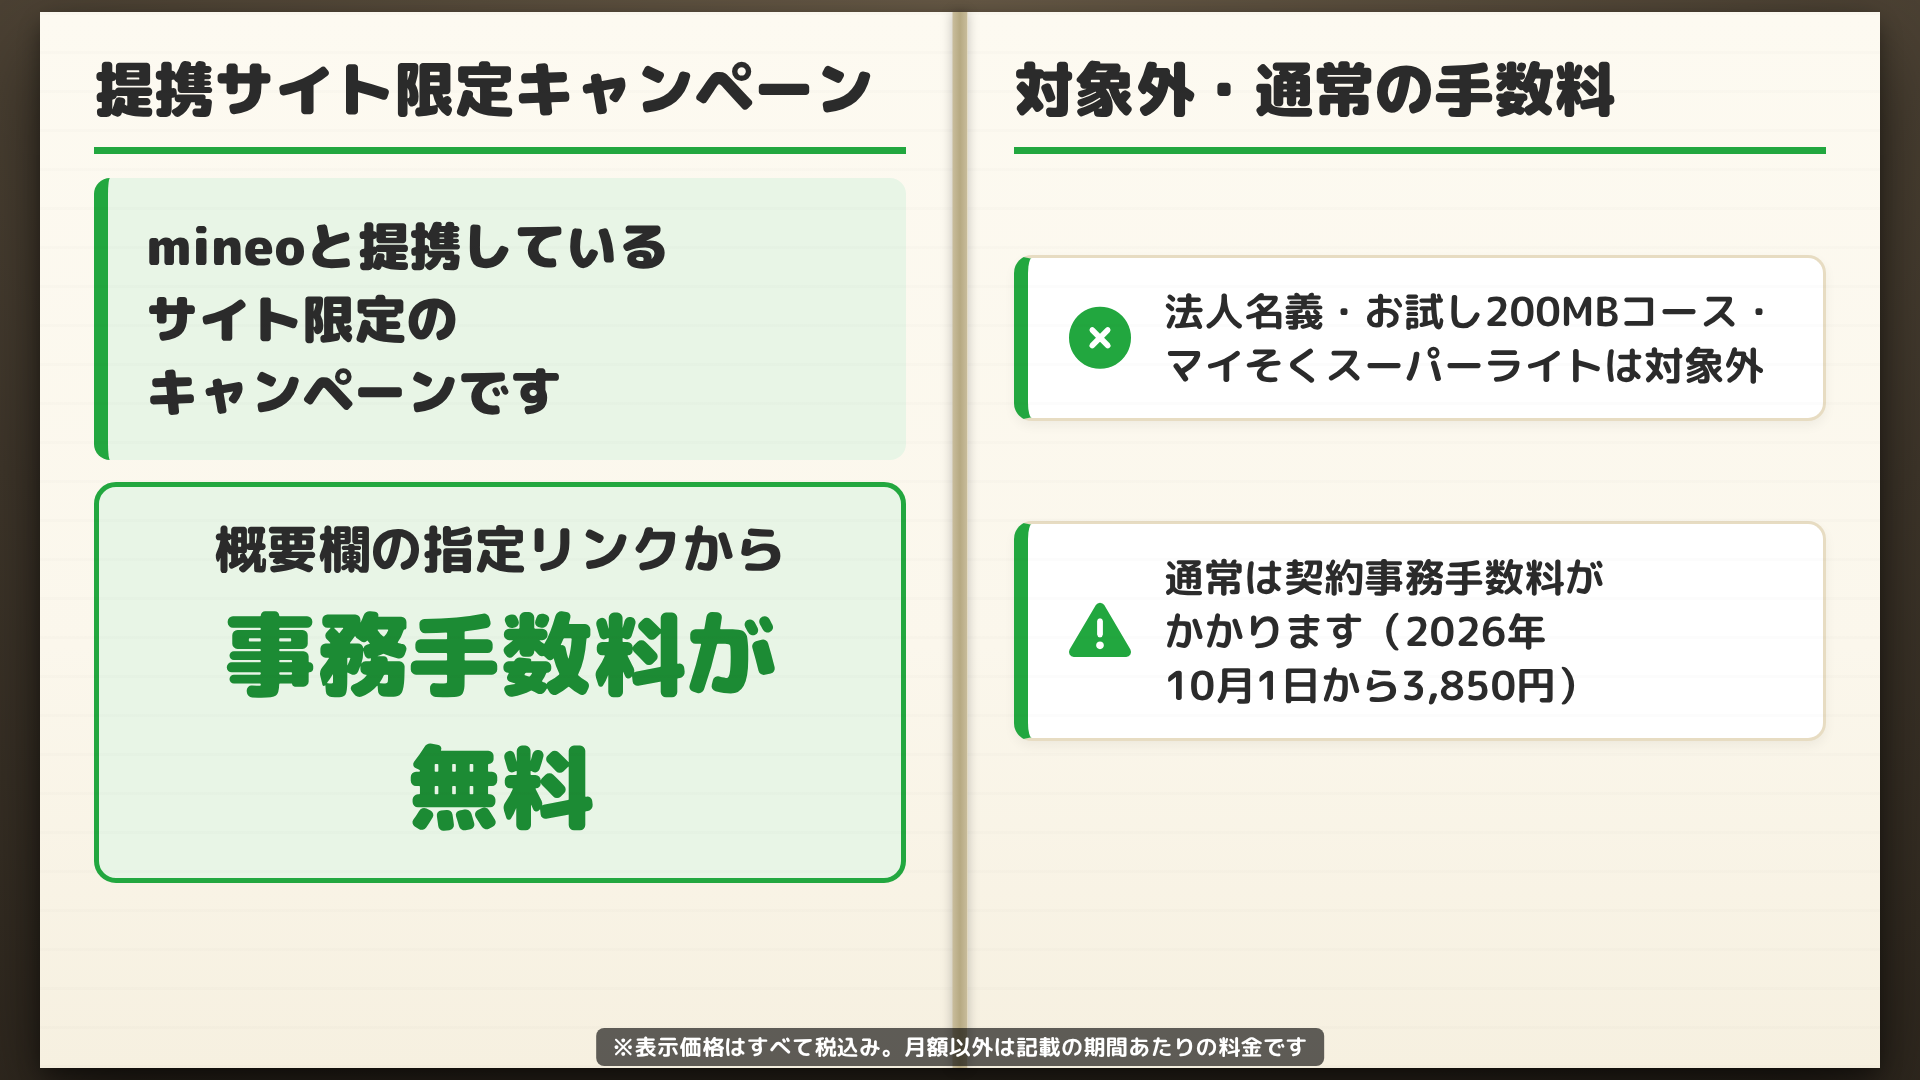
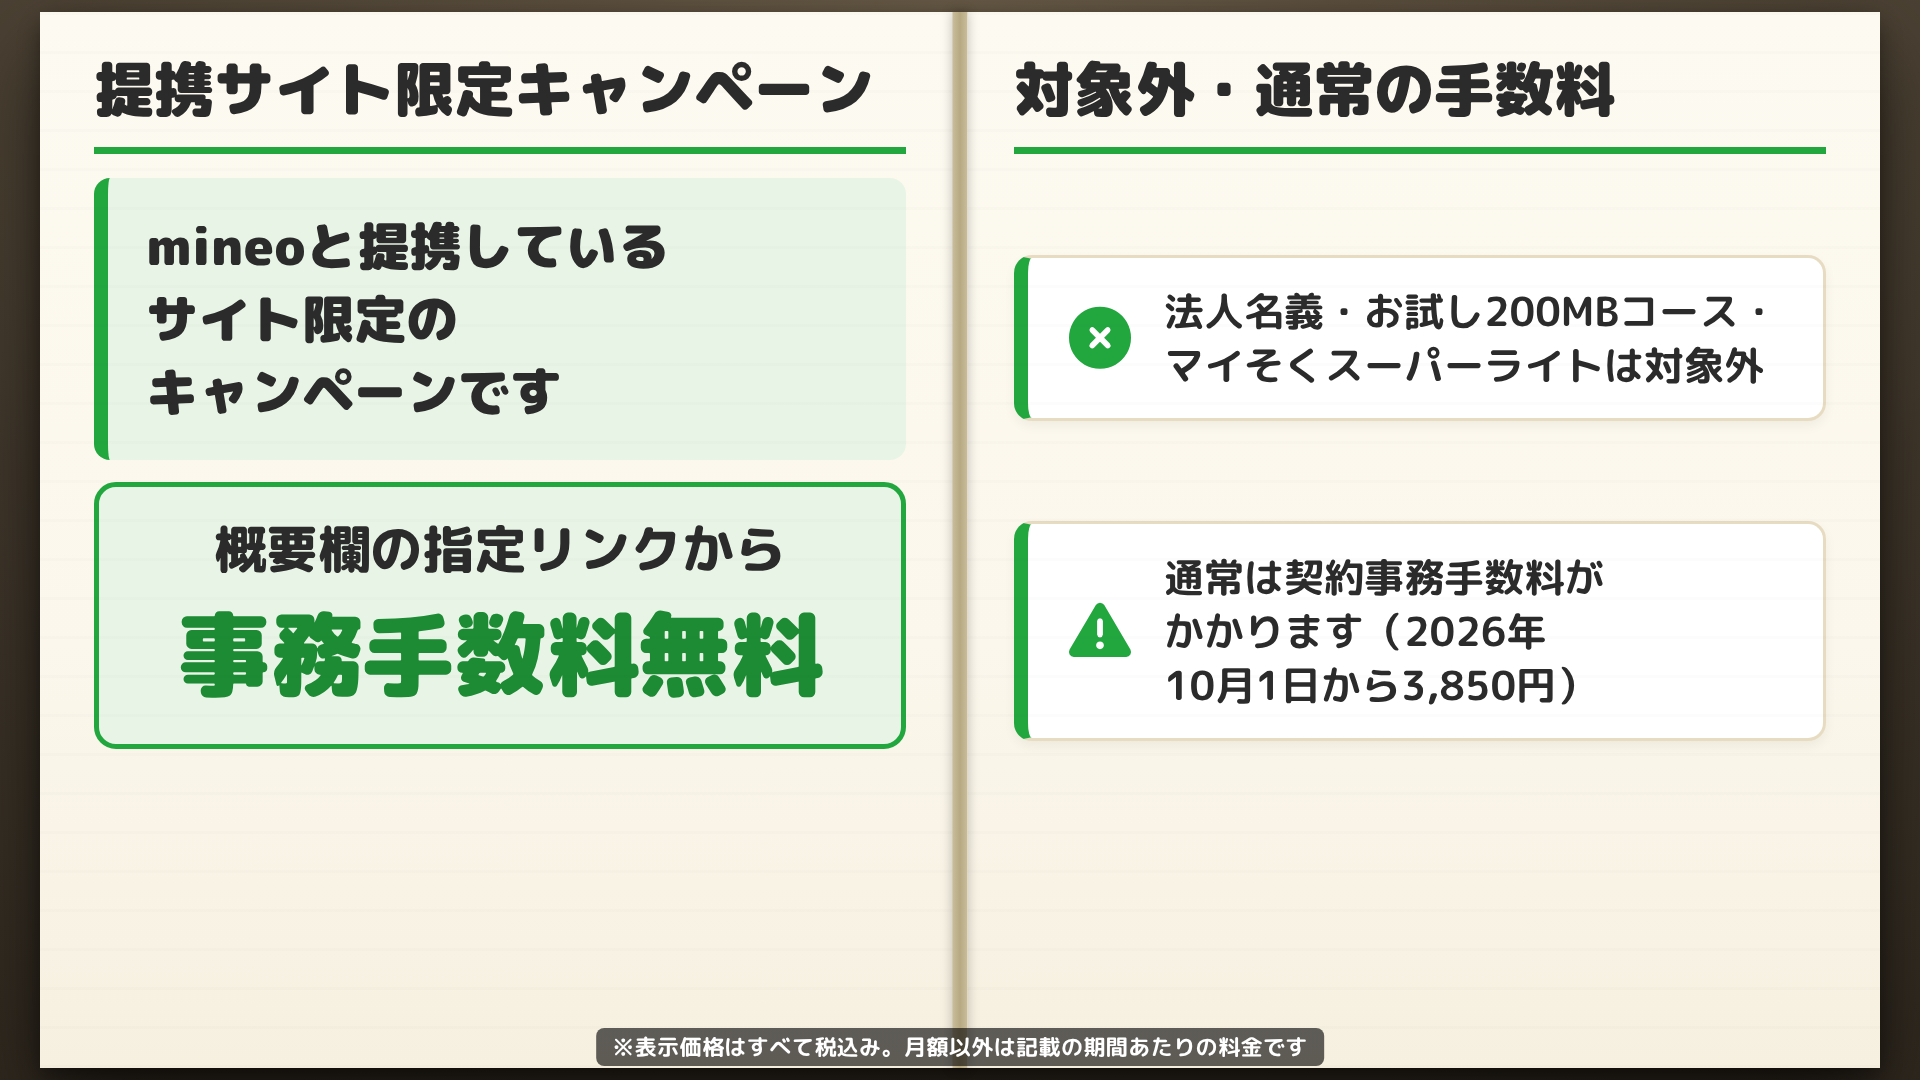
スライド改修

Changed region(s): [[0.0312, 0.55, 0.4688, 0.7639], [0.0312, 0.7944, 0.4688, 0.825]]

diff --git a/slides.html b/slides.html
@@ -951,11 +951,6 @@
               >外出先で重いオンラインゲームをする人、高画質の動画をたくさん見る人
               → もっと容量が必要
             </div>
-            <img
-              class="slide-eight-illust left"
-              src="public/images/irasutoya/pose_necchuu_smartphone_man.png"
-              alt="スマートフォンに熱中する男性のイラスト"
-            />
           </div>
         </div>
         <div class="page">
@@ -1077,11 +1072,6 @@
                 </li>
               </ul>
             </div>
-            <img
-              class="slide-nine-illust"
-              src="public/images/irasutoya/smartphone_nidaimochi_man.png"
-              alt="スマートフォンを2台持つ男性のイラスト"
-            />
           </div>
         </div>
         <div class="page">
@@ -1546,7 +1536,7 @@
             </div>
             <div class="emph compact-emph">
               概要欄の指定リンクから<br /><span class="big"
-                >事務手数料が無料</span
+                >事務手数料無料</span
               >
             </div>
           </div>
